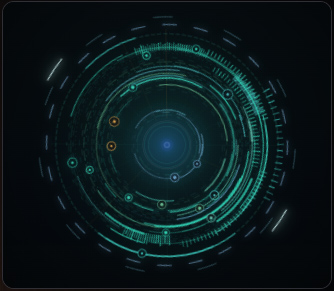
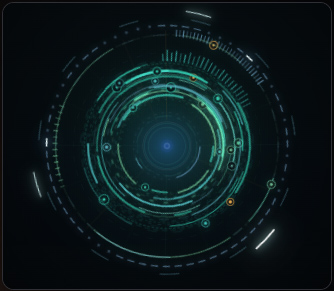
chore: txt attachments
- append attached file content to the context max to 32k tokens

diff --git a/ui/templates/index.html b/ui/templates/index.html
@@ -17,7 +17,7 @@
     <link rel="stylesheet" href="/static/css/runtime-memory.css?v=delayed-context-loaded-1">
     <link rel="stylesheet" href="/static/css/interface-overrides.css?v=css-split-1">
     <link rel="stylesheet" href="/static/css/theme-win95.css?v=delayed-context-loaded-1">
-    <link rel="stylesheet" href="/static/css/runtime-avatar.css?v=memory-rings-8">
+    <link rel="stylesheet" href="/static/css/runtime-avatar.css?v=memory-rings-9">
 </head>
 <body class="h-screen overflow-hidden flex flex-col font-mono antialiased bg-zinc-950 text-zinc-100">
 
@@ -509,7 +509,7 @@
 <script src="/static/js/runtime/runtime-panel.js?v=runtime-panel-service-usage-1"></script>
 <script src="/static/js/runtime/runtime-memory-view.js?v=delayed-context-loaded-1"></script>
 <script src="/static/js/runtime/runtime.js?v=delayed-context-loaded-1"></script>
-<script src="/static/js/runtime/runtime-avatar.js?v=memory-rings-19"></script>
+<script src="/static/js/runtime/runtime-avatar.js?v=memory-rings-20"></script>
 <script src="/static/js/status.js?v=status-check-5"></script>
 <script src="/static/js/dragdrop.js?v=attachments-5"></script>
 <script src="/static/js/runtime-action-counter.js?v=runtime-action-counter-2"></script>

diff --git a/ui/static/css/runtime-avatar.css b/ui/static/css/runtime-avatar.css
@@ -210,9 +210,13 @@
         opacity 0.28s cubic-bezier(0.22, 0.61, 0.36, 1);
 }
 
+.jin-runtime-avatar.is-memory-layers-hidden .jin-avatar-scaffold,
+.jin-runtime-avatar.is-memory-layers-hidden .jin-avatar-orbit-entry,
 .jin-runtime-avatar.is-memory-layers-hidden .jin-avatar-memory-ring,
-.jin-runtime-avatar.is-memory-layers-hidden .jin-avatar-memory-dash {
-    opacity: 0;
+.jin-runtime-avatar.is-memory-layers-hidden .jin-avatar-memory-dash,
+.jin-runtime-avatar.is-memory-layers-hidden .jin-avatar-center-ring {
+    opacity: 0 !important;
+    visibility: hidden;
     pointer-events: none;
 }
 

diff --git a/ui/static/js/runtime/runtime-avatar.js b/ui/static/js/runtime/runtime-avatar.js
@@ -1755,6 +1755,7 @@
 
   function appendStaticScaffold(svg, overallColor, random) {
     const scaffold = createSvgElement("g", {
+      class: "jin-avatar-scaffold",
       fill: "none",
       "pointer-events": "none",
     });
@@ -2030,6 +2031,7 @@
 
     [24, 31, 39].forEach((radius, index) => {
       center.appendChild(createSvgElement("circle", {
+        class: "jin-avatar-center-ring",
         cx: CENTER,
         cy: CENTER,
         r: radius,

diff --git a/tests/test_attachments.py b/tests/test_attachments.py
@@ -29,7 +29,7 @@ class AttachmentLogRedactionTests(unittest.TestCase):
             redacted["text_content"],
         )
 
-    def test_attachment_context_omits_text_preview_for_text_files(self):
+    def test_attachment_context_includes_full_text_for_text_files(self):
         context = format_attachment_context({
             "attachments": [
                 {
@@ -37,18 +37,16 @@ class AttachmentLogRedactionTests(unittest.TestCase):
                     "kind": "text",
                     "type": "text/plain",
                     "size_label": "12 KB",
-                    "text_preview": "do not send this preview",
-                    "text_content": "full content stays available to skills",
+                    "text_preview": "preview must not replace full text",
+                    "text_content": "full text body",
                 },
                 {
                     "name": "README.md",
                     "kind": "text",
                     "type": "text/markdown",
-                    "size_label": "304.8 KB",
-                    "text_preview": "# Dictionary body",
-                    "preview_limit": 2000,
-                    "truncated": True,
-                    "text_content": "full markdown stays available to skills",
+                    "size_label": "3 KB",
+                    "text_preview": "# Preview heading",
+                    "text_content": "# Real heading\n\nMarkdown body.",
                 },
             ],
         })
@@ -58,23 +56,78 @@ class AttachmentLogRedactionTests(unittest.TestCase):
             context,
         )
         self.assertIn(
-            "- README.md: text, text/markdown, 304.8 KB",
+            "full text body",
+            context,
+        )
+        self.assertIn(
+            "--- BEGIN ATTACHMENT TEXT: README.md ---",
+            context,
+        )
+        self.assertIn(
+            "# Real heading\n\nMarkdown body.",
             context,
         )
         self.assertNotIn(
-            "runtime_attachment",
+            "preview must not replace full text",
             context,
         )
         self.assertNotIn(
-            "text_preview",
+            "# Preview heading",
+            context,
+        )
+
+    def test_attachment_context_falls_back_to_preview_for_older_text_payloads(self):
+        context = format_attachment_context({
+            "attachments": [
+                {
+                    "name": "legacy.md",
+                    "kind": "text",
+                    "type": "text/markdown",
+                    "text_preview": "legacy markdown body",
+                },
+            ],
+        })
+
+        self.assertIn(
+            "legacy markdown body",
+            context,
+        )
+
+    def test_attachment_text_context_has_shared_message_budget(self):
+        context = format_attachment_context(
+            {
+                "attachments": [
+                    {
+                        "name": "one.md",
+                        "kind": "text",
+                        "type": "text/markdown",
+                        "text_content": "abcdefgh",
+                    },
+                    {
+                        "name": "two.md",
+                        "kind": "text",
+                        "type": "text/markdown",
+                        "text_content": "ijklmnop",
+                    },
+                ],
+            },
+            max_text_chars=10,
+        )
+
+        self.assertIn(
+            "abcdefgh",
+            context,
+        )
+        self.assertIn(
+            "ij",
             context,
         )
         self.assertNotIn(
-            "do not send this preview",
+            "klmnop",
             context,
         )
-        self.assertNotIn(
-            "# Dictionary body",
+        self.assertIn(
+            "[attachment text truncated: 6 chars omitted]",
             context,
         )
 

diff --git a/websocket/attachments.py b/websocket/attachments.py
@@ -1,3 +1,6 @@
+TEXT_ATTACHMENT_CONTEXT_MAX_CHARS = 32000
+
+
 def has_message_attachments(
     message_data: dict,
 ) -> bool:
@@ -14,8 +17,48 @@ def has_message_attachments(
     )
 
 
+def _normalize_attachment_text(
+    value,
+) -> str:
+
+    return str(
+        value
+        if value is not None
+        else ""
+    ).replace(
+        "\r\n",
+        "\n",
+    ).replace(
+        "\r",
+        "\n",
+    )
+
+
+def _get_attachment_text_content(
+    attachment: dict,
+) -> str:
+
+    if "text_content" in attachment:
+        return _normalize_attachment_text(
+            attachment.get(
+                "text_content",
+            )
+        )
+
+    # Backward compatibility for turns created by older clients that only
+    # supplied the preview field.
+    return _normalize_attachment_text(
+        attachment.get(
+            "text_preview",
+            "",
+        )
+    )
+
+
 def format_attachment_context(
     message_data: dict,
+    *,
+    max_text_chars: int = TEXT_ATTACHMENT_CONTEXT_MAX_CHARS,
 ) -> str:
 
     attachments = message_data.get(
@@ -27,6 +70,21 @@ def format_attachment_context(
         list,
     ):
         return ""
+
+    try:
+        remaining_text_chars = max(
+            0,
+            int(
+                max_text_chars
+            ),
+        )
+    except (
+        TypeError,
+        ValueError,
+    ):
+        remaining_text_chars = (
+            TEXT_ATTACHMENT_CONTEXT_MAX_CHARS
+        )
 
     lines = [
         "Attached context:",
@@ -96,6 +154,49 @@ def format_attachment_context(
 
         lines.append(
             f"- {name}: {', '.join(detail_parts)}"
+        )
+
+        if kind.strip().lower() != "text":
+            continue
+
+        text_content = _get_attachment_text_content(
+            attachment
+        )
+
+        if not text_content.strip():
+            continue
+
+        if remaining_text_chars <= 0:
+            lines.append(
+                "[attachment text omitted: text context budget exhausted]"
+            )
+            continue
+
+        visible_text = text_content[
+            :remaining_text_chars
+        ]
+        omitted_chars = (
+            len(text_content)
+            - len(visible_text)
+        )
+        remaining_text_chars -= len(
+            visible_text
+        )
+
+        lines.append(
+            f"--- BEGIN ATTACHMENT TEXT: {name} ---"
+        )
+        lines.append(
+            visible_text
+        )
+
+        if omitted_chars > 0:
+            lines.append(
+                f"[attachment text truncated: {omitted_chars} chars omitted]"
+            )
+
+        lines.append(
+            f"--- END ATTACHMENT TEXT: {name} ---"
         )
 
     if not included:

diff --git a/tests/test_runtime_avatar_l4_ring_client_contract.py b/tests/test_runtime_avatar_l4_ring_client_contract.py
@@ -167,6 +167,20 @@ class RuntimeAvatarL4RingClientContractTests(unittest.TestCase):
             ".jin-runtime-avatar.is-memory-layers-hidden .jin-avatar-memory-ring",
             css_source,
         )
+        self.assertIn(
+            ".jin-runtime-avatar.is-memory-layers-hidden .jin-avatar-scaffold",
+            css_source,
+        )
+        self.assertIn(
+            ".jin-runtime-avatar.is-memory-layers-hidden .jin-avatar-orbit-entry",
+            css_source,
+        )
+        self.assertIn(
+            ".jin-runtime-avatar.is-memory-layers-hidden .jin-avatar-center-ring",
+            css_source,
+        )
+        self.assertIn('class: "jin-avatar-scaffold"', avatar_source)
+        self.assertIn('class: "jin-avatar-center-ring"', avatar_source)
 
         click_start = input_source.index("if (factCheckTrigger) {")
         click_end = input_source.index("chatForm.addEventListener", click_start)
@@ -178,11 +192,11 @@ class RuntimeAvatarL4RingClientContractTests(unittest.TestCase):
         source = INDEX_HTML.read_text(encoding="utf-8")
 
         self.assertIn(
-            "/static/css/runtime-avatar.css?v=memory-rings-8",
+            "/static/css/runtime-avatar.css?v=memory-rings-9",
             source,
         )
         self.assertIn(
-            "/static/js/runtime/runtime-avatar.js?v=memory-rings-19",
+            "/static/js/runtime/runtime-avatar.js?v=memory-rings-20",
             source,
         )
         self.assertIn(

diff --git a/tests/test_memory_citation_layers_client_contract.py b/tests/test_memory_citation_layers_client_contract.py
@@ -115,7 +115,7 @@ class MemoryCitationLayersClientContractTests(unittest.TestCase):
         self.assertIn("/static/css/runtime-memory.css?v=delayed-context-loaded-1", source)
         self.assertIn("/static/css/theme-win95.css?v=delayed-context-loaded-1", source)
         self.assertIn("/static/js/runtime/runtime-memory-view.js?v=delayed-context-loaded-1", source)
-        self.assertIn("/static/js/runtime/runtime-avatar.js?v=memory-rings-19", source)
+        self.assertIn("/static/js/runtime/runtime-avatar.js?v=memory-rings-20", source)
         self.assertIn("/static/js/think-citations.js?v=think-citations-5", source)
         self.assertIn("/static/js/chat.js?v=reasoning-gap-1", source)
 
